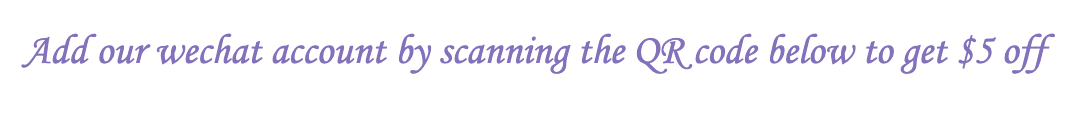
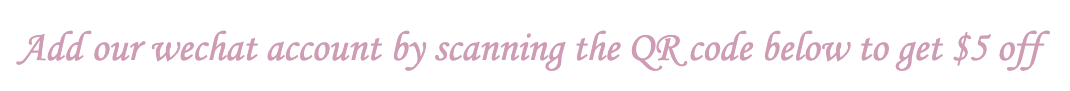
add vision section and update email, pricelist, scrolls

Changed region(s): [[0.0, 0.2857, 0.9869, 0.7912], [0.3701, 0.7033, 0.4009, 0.7692], [0.4935, 0.3297, 0.5243, 0.3516]]

diff --git a/index.html b/index.html
@@ -44,7 +44,7 @@
 <!-- header section -->
 <section class="banner" role="banner">
     <header id="header">
-        <div class="header-content clearfix"><a class="logo" href="index.html">Mo.Mo Beauty Nails</a>
+        <div class="header-content clearfix"><a class="logo" href="index.html", style="font-family: 'Brush Script MT';font-size: 40px;">Mo.Mo Beauty Nails</a>
             <nav class="navigation" role="navigation">
                 <ul class="primary-nav">
                     <li><a href="#vision">Our Vision</a></li>
@@ -68,6 +68,7 @@
     </div>
 </section>
 <!-- header section -->
+
 <!-- vision section -->
 <section id="vision" class="services service-section">
     <div class="container">
@@ -78,14 +79,11 @@
         <img src="images/scroll.jpg" />
     </marquee>
 
-        <div class="vision-container">
-          <img src="images/vision-bg.jpeg" style="width:100%;">
-          <div class="vision-centered-text ">Centered Text Placeholder</div>
-        </div>
-
+    <h1 class="vision-centered-text">Mo.Mo Beauty would like to be the messenger of beauty and is pleased to deliver the message to you.</h1>
     </div>
 </section>
 <!-- vision section -->
+
 <!-- services section -->
 <section id="services" class="services service-section">
     <div class="container">
@@ -296,7 +294,7 @@
             </div><!-- end col-md-6 -->
             <div class="col-md-6">
                 <div class="package no-border wow fadeInLeft animated" data-wow-offset="150" data-wow-delay="400m">
-                    <h5 class="product-text">UV Gel New Set</h5>
+                    <h5 class="product-text">Poly Gel New Set</h5>
                     <strong class="price">
                         $ 45</strong>
                 </div><!-- end package -->
@@ -309,11 +307,6 @@
                     <h5 class="product-text">With Shellac Colour</h5>
                     <strong class="price">
                         $ +10</strong>
-                </div><!-- end package -->
-                <div class="package no-border wow fadeInLeft animated" data-wow-offset="150" data-wow-delay="400m">
-                    <h5 class="product-text">Acrylic Nail</h5>
-                    <strong class="price">
-                        $ 30</strong>
                 </div><!-- end package -->
 
             </div><!-- end col-md-6 -->
@@ -451,26 +444,61 @@
                         $ 139</strong>
                 </div><!-- end package -->
                 <div class="package no-border wow fadeInLeft animated" data-wow-offset="150" data-wow-delay="400m">
-                    <h5 class="product-text">Deep Cleansing Facial<br/>(Prepaid Package $280/5 times)</h5>
+                    <h5 class="product-text">樱花焕肤 (体验价 $128) <br/>(小气泡，补水保湿。淡化色斑，美白提亮，补充胶原蛋白，消除细纹，收细毛孔）</h5>
                     <strong class="price">
-                        $ 60</strong>
+                        $ 198</strong>
                 </div><!-- end package -->
                 <div class="package no-border wow fadeInLeft animated" data-wow-offset="150" data-wow-delay="400m">
-                    <h5 class="product-text">Hydrating</h5>
+                    <h5 class="product-text">水光炸弹 (体验价 $168)<br/>（小气泡，调整肌肤PH平衡，生成水分保护膜，敏感肌肤，严重缺水干燥肌肤）</h5>
                     <strong class="price">
-                        $ 70</strong>
+                        $ 198</strong>
+                </div><!-- end package -->
+                <div class="package no-border wow fadeInLeft animated" data-wow-offset="150" data-wow-delay="400m">
+                    <h5 class="product-text">木乃伊焕肤 (体验价 $168)<br/>(小气泡，补充胎盘素，活化细胞，补充氧份，提拉，增加弹性，塑造V型脸）</h5>
+                    <strong class="price">
+                        $ 228</strong>
+                </div><!-- end package -->
+                <div class="package no-border wow fadeInLeft animated" data-wow-offset="150" data-wow-delay="400m">
+                    <h5 class="product-text">深海补水 (体验价 $168)<br/>（小气泡，使肌肤提亮，细嫩，滋养，紧致，锁水，保湿，镇定，退红）</h5>
+                    <strong class="price">
+                        $ 228</strong>
+                </div><!-- end package -->
+                <div class="package no-border wow fadeInLeft animated" data-wow-offset="150" data-wow-delay="400m">
+                    <h5 class="product-text">黄金焕肤 (体验价 $168)<br/>(小气泡，紧致肌肤，亮肤美白，补水排毒，激活皮肤细胞）</h5>
+                    <strong class="price">
+                        $ 228</strong>
                 </div><!-- end package -->
             </div><!-- end col-md-6 -->
             <div class="col-md-6">
                 <div class="package no-border wow fadeInLeft animated" data-wow-offset="150" data-wow-delay="400m">
-                    <h5 class="product-text">Lifting and Firming</h5>
+                    <h5 class="product-text">Hydro Oxygen Jet Micro-Bubbles Facial <br/>(trial price: $69)</h5>
                     <strong class="price">
-                        $ 75</strong>
+                        $ 139</strong>
                 </div><!-- end package -->
                 <div class="package no-border wow fadeInLeft animated" data-wow-offset="150" data-wow-delay="400m">
-                    <h5 class="product-text">Eye treatment</h5>
+                    <h5 class="product-text">Cherry Blossom Brightening Facial <br/>(trial price: $128)</h5>
                     <strong class="price">
-                        $ 30</strong>
+                        $ 198</strong>
+                </div><!-- end package -->
+                <div class="package no-border wow fadeInLeft animated" data-wow-offset="150" data-wow-delay="400m">
+                    <h5 class="product-text">Water Bomb Facial <br/>(trial price: 168)</h5>
+                    <strong class="price">
+                        $ 198</strong>
+                </div><!-- end package -->
+                <div class="package no-border wow fadeInLeft animated" data-wow-offset="150" data-wow-delay="400m">
+                    <h5 class="product-text">Mummy Rejuvenating & Hydrating Facial<br/>(trial price: 168)</h5>
+                    <strong class="price">
+                        $ 228</strong>
+                </div><!-- end package -->
+                <div class="package no-border wow fadeInLeft animated" data-wow-offset="150" data-wow-delay="400m">
+                    <h5 class="product-text">Deep-Sea Brightening & Hydrating Facial <br/>(trial price: 168)</h5>
+                    <strong class="price">
+                        $ 228</strong>
+                </div><!-- end package -->
+                <div class="package no-border wow fadeInLeft animated" data-wow-offset="150" data-wow-delay="400m">
+                    <h5 class="product-text">Golden Pearl Facial <br/>(trial price: 168)</h5>
+                    <strong class="price">
+                        $ 228</strong>
                 </div><!-- end package -->
 
             </div><!-- end col-md-6 -->
@@ -566,14 +594,15 @@
                 "></iframe>
 
                 <div id="map-overlay" class="col-xs-5 col-xs-offset-6 contacts" style="">
-                    <h2 style="margin-top:0;color:#fff;">Contact us</h2>
+                    <h2 style="margin-top:0;color:#fff;">Contact Us</h2>
                     <address style="color:#fff;">
                         <strong>Mo.Mo Beauty Nails</strong><br>
                         203 - 4910 Yonge St.<br>
                         North York, ON<br>
                         Canada<br>
                         M2N 5N5<br>
-                        Tel: <a href="tel://1-647-350-8333">(416) 292-5561</a>
+                        Tel: <a href="tel://1-647-350-8333">(416) 292-5561</a><br>
+                        Email: <a href="mailto:momobeautynails@gamil.com">momobeautynails@gmail.com</a>
                     </address>
                     © 2020 Mo.Mo Beauty Nails.
                 </div>

diff --git a/css/main.css b/css/main.css
@@ -355,11 +355,13 @@ ul li {
     background-image: url(../images/banner.jpg);
     background-position: center top;
     background-repeat: no-repeat;
-    -moz-background-size: cover;
-    -o-background-size: cover;
+    /*-moz-background-size: cover;*/
+    /*-o-background-size: cover;*/
     -webkit-background-size: cover;
     background-size: cover;
-    min-height: 750px;
+    max-width: 100%;
+    max-height: 100%;
+    margin: auto;
 }
 
 .banner-text {
@@ -408,7 +410,7 @@ Common Styles
     text-align: center;
     padding-bottom: 30px;
     font-size: 50px;
-    /*font-family: Brush Script MT;*/
+    font-family: Brush Script MT;
 }
 
 .section-header h2 {
@@ -433,16 +435,11 @@ Common Styles
 }
 
 .vision-centered-text {
-  position: absolute;
-  top: 50%;
-  left: 50%;
-  transform: translate(-50%, -50%);
-    color: #F05DA3;
+  color: #d5a6bd;
+  text-align: center;
+    font-family:"Brush Script MT";
 }
 
-/*.services {*/
-/*    margin-bottom: 50px;*/
-/*}*/
 
 .vision-content {
     padding: 30px 30px 20px;
